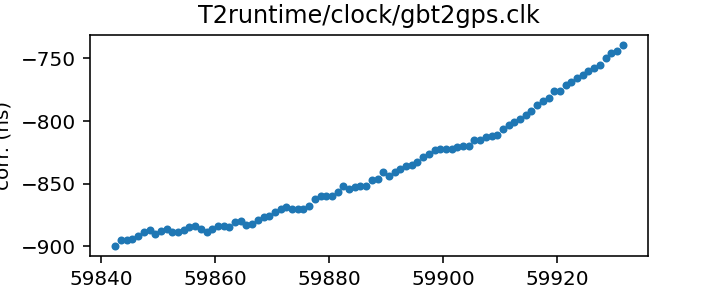
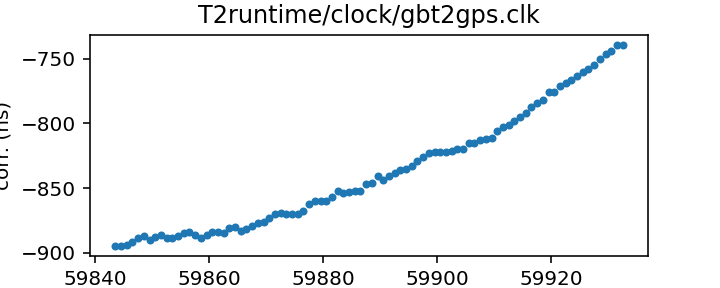
Routine gh-pages update from Github action Tue Dec 20 20:28:44 UTC 2022

diff --git a/status.md b/status.md
@@ -13,17 +13,17 @@ name of each clock file links to a page with more details.
 
 | Name | File | Corrections start | Corrections end | Last check date | Last check result 
 |:--- |:--- | --- | --- | --- |:--- 
-| [GPS to UTC](T2runtime/clock/gps2utc.clk.html) | `T2runtime/clock/gps2utc.clk` | 1993-01-01 MJD 48988.0 | 2022-11-26 MJD 59909.0 | 2022-12-19 | Unchanged 
-| [GPS to UTC (Combined Clock)](T2runtime/clock/gps2utc_cc.clk.html) | `T2runtime/clock/gps2utc_cc.clk` | 1993-01-01 MJD 48988.0 | 2022-11-26 MJD 59909.0 | 2022-12-19 | Unchanged 
-| [GPS to UTC (Corrected)](T2runtime/clock/gps2utc_c0p.clk.html) | `T2runtime/clock/gps2utc_c0p.clk` | 2010-12-29 MJD 55559.0 | 2022-11-26 MJD 59909.0 | 2022-12-19 | Unchanged 
-| [GBT](tempo/clock/time_gbt.dat.html) | `tempo/clock/time_gbt.dat` | 2000-12-31 MJD 51909.5 | 2022-12-18 MJD 59931.5 | 2022-12-19 | Updated 
-| [GBT (TEMPO2 converted from TEMPO)](T2runtime/clock/gbt2gps.clk.html) | `T2runtime/clock/gbt2gps.clk` | 2000-12-31 MJD 51909.5 | 2022-12-18 MJD 59931.5 | 2022-12-19 | Updated 
+| [GPS to UTC](T2runtime/clock/gps2utc.clk.html) | `T2runtime/clock/gps2utc.clk` | 1993-01-01 MJD 48988.0 | 2022-11-26 MJD 59909.0 | 2022-12-20 | Unchanged 
+| [GPS to UTC (Combined Clock)](T2runtime/clock/gps2utc_cc.clk.html) | `T2runtime/clock/gps2utc_cc.clk` | 1993-01-01 MJD 48988.0 | 2022-11-26 MJD 59909.0 | 2022-12-20 | Unchanged 
+| [GPS to UTC (Corrected)](T2runtime/clock/gps2utc_c0p.clk.html) | `T2runtime/clock/gps2utc_c0p.clk` | 2010-12-29 MJD 55559.0 | 2022-11-26 MJD 59909.0 | 2022-12-20 | Unchanged 
+| [GBT](tempo/clock/time_gbt.dat.html) | `tempo/clock/time_gbt.dat` | 2000-12-31 MJD 51909.5 | 2022-12-19 MJD 59932.5 | 2022-12-20 | Updated 
+| [GBT (TEMPO2 converted from TEMPO)](T2runtime/clock/gbt2gps.clk.html) | `T2runtime/clock/gbt2gps.clk` | 2000-12-31 MJD 51909.5 | 2022-12-19 MJD 59932.5 | 2022-12-20 | Updated 
 | [Jodrell Bank](T2runtime/clock/jb2gps.clk.html) | `T2runtime/clock/jb2gps.clk` | 2006-10-13 MJD 54021.4 | 2021-11-03 MJD 59521.0 | 2022-12-14 | Unchanged 
 | [Jodrell Bank Roach](T2runtime/clock/jbroach2jb.clk.html) | `T2runtime/clock/jbroach2jb.clk` | 2006-10-13 MJD 54021.4 | 2018-03-20 MJD 58197.6 | 2022-12-14 | Unchanged 
 | [Jodrell Bank DFB](T2runtime/clock/jbdfb2jb.clk.html) | `T2runtime/clock/jbdfb2jb.clk` | 2006-10-13 MJD 54021.4 | 2017-05-11 MJD 57884.0 | 2022-12-14 | Unchanged 
 | [Meerkat (observatory)](T2runtime/clock/mk2utc_observatory.clk.html) | `T2runtime/clock/mk2utc_observatory.clk` | 2019-01-01 MJD 58484.0 | 2022-12-09 MJD 59923.0 | 2022-12-19 | Updated 
-| [Leap seconds](tempo/clock/leap.sec.html) | `tempo/clock/leap.sec` | 1972-07-01 MJD 41499.0 | 2017-01-01 MJD 57754.0 | 2022-12-19 | Unchanged 
-| [UT1 table](tempo/clock/ut1.dat.html) | `tempo/clock/ut1.dat` | 1973-01-02 MJD 41684.0 | 2023-12-23 MJD 60301.0 | 2022-12-19 | Unchanged 
+| [Leap seconds](tempo/clock/leap.sec.html) | `tempo/clock/leap.sec` | 1972-07-01 MJD 41499.0 | 2017-01-01 MJD 57754.0 | 2022-12-20 | Unchanged 
+| [UT1 table](tempo/clock/ut1.dat.html) | `tempo/clock/ut1.dat` | 1973-01-02 MJD 41684.0 | 2023-12-23 MJD 60301.0 | 2022-12-20 | Unchanged 
 
 
 

diff --git a/T2runtime/clock/gbt2gps.clk.md b/T2runtime/clock/gbt2gps.clk.md
@@ -23,14 +23,13 @@ If questions arise about the conversion, contact Anne Archibald
 | Format | tempo2 |
 | Bogus last correction | False |
 | Clock file start | 2000-12-31 MJD 51909.5 |
-| Clock file end | 2022-12-18 MJD 59931.5 |
+| Clock file end | 2022-12-19 MJD 59932.5 |
 | Update interval (days) | 1 |
-| Last update attempt | 2022-12-19 |
+| Last update attempt | 2022-12-20 |
 | Last update result | Updated |
 
 Log entries from the last few update attempts:
 ```
-2022-12-10 20:28:49.940 - Updated
 2022-12-11 20:28:52.157 - Updated
 2022-12-12 20:29:18.536 - Updated
 2022-12-13 20:30:05.493 - Updated
@@ -40,12 +39,13 @@ Log entries from the last few update attempts:
 2022-12-17 20:27:00.773 - Updated
 2022-12-18 20:27:12.347 - Updated
 2022-12-19 20:29:20.215 - Updated
+2022-12-20 20:28:22.919 - Updated
 ```
 [Full log](https://raw.githubusercontent.com/ipta/pulsar-clock-corrections/main/log/T2runtime/clock/gbt2gps.clk.log)
 
 Leading comments from clock file:
 
-    # This file was automatically converted from tempo/clock/time_gbt.dat on 2022-12-19 20:29:20.148
+    # This file was automatically converted from tempo/clock/time_gbt.dat on 2022-12-20 20:28:22.852
 
 
 

diff --git a/tempo/clock/time_gbt.dat.md b/tempo/clock/time_gbt.dat.md
@@ -18,14 +18,13 @@ If questions arise, contact Ryan S. Lynch <rlynch@nrao.edu>.
 | Format | tempo |
 | Bogus last correction | False |
 | Clock file start | 2000-12-31 MJD 51909.5 |
-| Clock file end | 2022-12-18 MJD 59931.5 |
+| Clock file end | 2022-12-19 MJD 59932.5 |
 | Update interval (days) | 1 |
-| Last update attempt | 2022-12-19 |
+| Last update attempt | 2022-12-20 |
 | Last update result | Updated |
 
 Log entries from the last few update attempts:
 ```
-2022-12-10 20:28:49.870 - Updated
 2022-12-11 20:28:52.070 - Updated
 2022-12-12 20:29:18.053 - Updated
 2022-12-13 20:30:05.422 - Updated
@@ -35,6 +34,7 @@ Log entries from the last few update attempts:
 2022-12-17 20:27:00.673 - Updated
 2022-12-18 20:27:12.277 - Updated
 2022-12-19 20:29:19.946 - Updated
+2022-12-20 20:28:22.850 - Updated
 ```
 [Full log](https://raw.githubusercontent.com/ipta/pulsar-clock-corrections/main/log/tempo/clock/time_gbt.dat.log)
 

diff --git a/T2runtime/clock/gps2utc_c0p.clk.md b/T2runtime/clock/gps2utc_c0p.clk.md
@@ -30,12 +30,11 @@ about the BIPM's published corrections, contact <tai@bipm.org>.
 | Clock file start | 2010-12-29 MJD 55559.0 |
 | Clock file end | 2022-11-26 MJD 59909.0 |
 | Update interval (days) | 1 |
-| Last update attempt | 2022-12-19 |
+| Last update attempt | 2022-12-20 |
 | Last update result | Unchanged |
 
 Log entries from the last few update attempts:
 ```
-2022-12-10 20:28:48.930 - Unchanged
 2022-12-11 20:28:51.014 - Unchanged
 2022-12-12 20:29:17.500 - Updated
 2022-12-13 20:30:04.760 - Unchanged
@@ -45,6 +44,7 @@ Log entries from the last few update attempts:
 2022-12-17 20:26:59.617 - Unchanged
 2022-12-18 20:27:11.705 - Unchanged
 2022-12-19 20:29:19.470 - Unchanged
+2022-12-20 20:28:22.398 - Unchanged
 ```
 [Full log](https://raw.githubusercontent.com/ipta/pulsar-clock-corrections/main/log/T2runtime/clock/gps2utc_c0p.clk.log)
 

diff --git a/T2runtime/clock/gps2utc_cc.clk.md b/T2runtime/clock/gps2utc_cc.clk.md
@@ -29,12 +29,11 @@ about the BIPM's published corrections, contact <tai@bipm.org>.
 | Clock file start | 1993-01-01 MJD 48988.0 |
 | Clock file end | 2022-11-26 MJD 59909.0 |
 | Update interval (days) | 1 |
-| Last update attempt | 2022-12-19 |
+| Last update attempt | 2022-12-20 |
 | Last update result | Unchanged |
 
 Log entries from the last few update attempts:
 ```
-2022-12-10 20:28:48.916 - Unchanged
 2022-12-11 20:28:50.993 - Unchanged
 2022-12-12 20:29:17.452 - Updated
 2022-12-13 20:30:04.748 - Unchanged
@@ -44,6 +43,7 @@ Log entries from the last few update attempts:
 2022-12-17 20:26:59.602 - Unchanged
 2022-12-18 20:27:11.694 - Unchanged
 2022-12-19 20:29:19.459 - Unchanged
+2022-12-20 20:28:22.387 - Unchanged
 ```
 [Full log](https://raw.githubusercontent.com/ipta/pulsar-clock-corrections/main/log/T2runtime/clock/gps2utc_cc.clk.log)
 

diff --git a/T2runtime/clock/gps2utc.clk.md b/T2runtime/clock/gps2utc.clk.md
@@ -32,12 +32,11 @@ about the BIPM's published corrections, contact <tai@bipm.org>.
 | Clock file start | 1993-01-01 MJD 48988.0 |
 | Clock file end | 2022-11-26 MJD 59909.0 |
 | Update interval (days) | 1 |
-| Last update attempt | 2022-12-19 |
+| Last update attempt | 2022-12-20 |
 | Last update result | Unchanged |
 
 Log entries from the last few update attempts:
 ```
-2022-12-10 20:28:48.881 - Unchanged
 2022-12-11 20:28:50.947 - Unchanged
 2022-12-12 20:29:17.359 - Updated
 2022-12-13 20:30:04.714 - Unchanged
@@ -47,6 +46,7 @@ Log entries from the last few update attempts:
 2022-12-17 20:26:59.556 - Unchanged
 2022-12-18 20:27:11.662 - Unchanged
 2022-12-19 20:29:19.427 - Unchanged
+2022-12-20 20:28:22.355 - Unchanged
 ```
 [Full log](https://raw.githubusercontent.com/ipta/pulsar-clock-corrections/main/log/T2runtime/clock/gps2utc.clk.log)
 

diff --git a/tempo/clock/leap.sec.md b/tempo/clock/leap.sec.md
@@ -21,12 +21,11 @@ If there are any questions, contact Anne Archibald
 | File start | 1972-07-01 MJD 41499.0 |
 | File end | 2017-01-01 MJD 57754.0 |
 | Update interval (days) | 0 |
-| Last update attempt | 2022-12-19 |
+| Last update attempt | 2022-12-20 |
 | Last update result | Unchanged |
 
 Log entries from the last few update attempts:
 ```
-2022-12-10 20:28:49.977 - Unchanged
 2022-12-11 20:28:52.208 - Unchanged
 2022-12-12 20:29:29.639 - Unchanged
 2022-12-13 20:30:05.531 - Unchanged
@@ -36,5 +35,6 @@ Log entries from the last few update attempts:
 2022-12-17 20:27:00.842 - Unchanged
 2022-12-18 20:27:12.390 - Unchanged
 2022-12-19 20:29:23.787 - Unchanged
+2022-12-20 20:28:22.955 - Unchanged
 ```
 [Full log](https://raw.githubusercontent.com/ipta/pulsar-clock-corrections/main/log/tempo/clock/leap.sec.log)

diff --git a/tempo/clock/ut1.dat.md b/tempo/clock/ut1.dat.md
@@ -30,12 +30,11 @@ If there are any questions, contact Anne Archibald
 | File start | 1973-01-02 MJD 41684.0 |
 | File end | 2023-12-23 MJD 60301.0 |
 | Update interval (days) | 0 |
-| Last update attempt | 2022-12-19 |
+| Last update attempt | 2022-12-20 |
 | Last update result | Unchanged |
 
 Log entries from the last few update attempts:
 ```
-2022-12-10 20:29:02.930 - Unchanged
 2022-12-11 20:29:05.608 - Unchanged
 2022-12-12 20:29:40.049 - Unchanged
 2022-12-13 20:30:15.842 - Unchanged
@@ -45,5 +44,6 @@ Log entries from the last few update attempts:
 2022-12-17 20:27:14.180 - Unchanged
 2022-12-18 20:27:22.857 - Unchanged
 2022-12-19 20:29:31.664 - Unchanged
+2022-12-20 20:28:31.031 - Unchanged
 ```
 [Full log](https://raw.githubusercontent.com/ipta/pulsar-clock-corrections/main/log/tempo/clock/ut1.dat.log)
